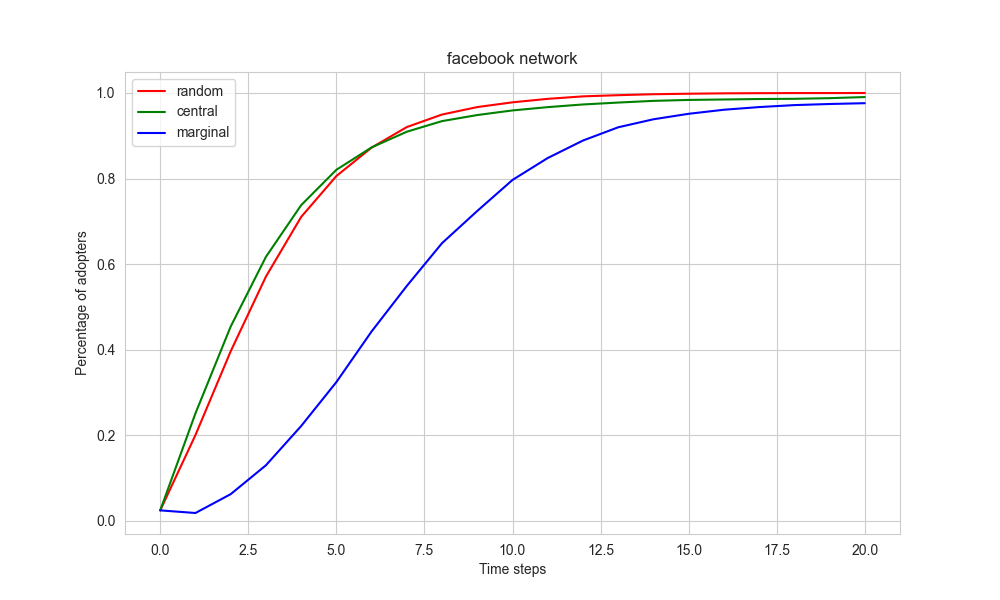
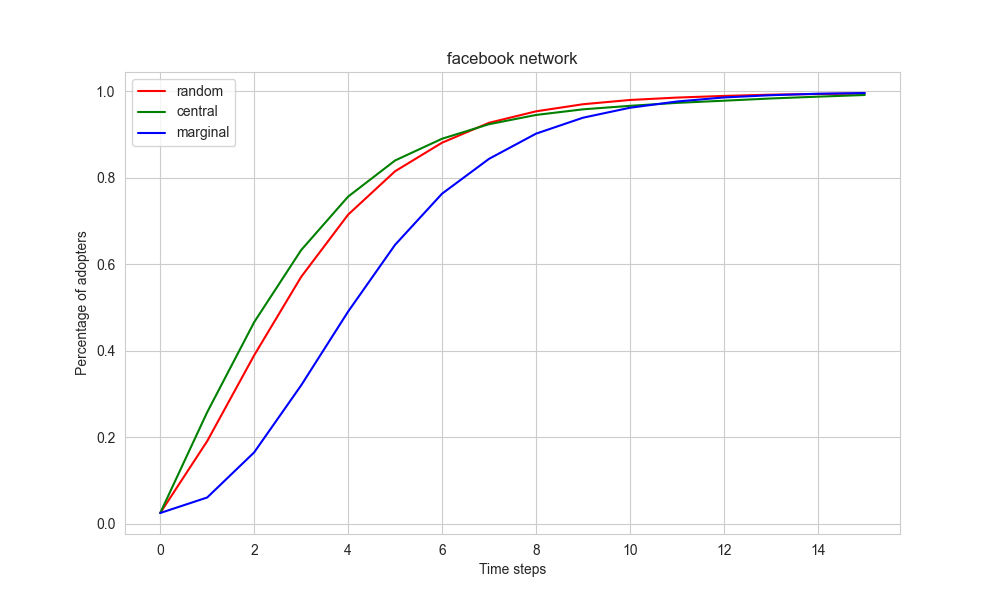
Added tests

diff --git a/tests/tests.py b/tests/tests.py
@@ -1,0 +1,127 @@
+import os
+import pytest
+import networkx as nx
+import pandas as pd
+import numpy as np
+from src.functions import show_and_save_prop
+from src.functions import generate_random_graph
+from src.functions import graph_preprocessing
+from src.functions import spread_of_information
+from src.functions import make_diffusions_and_average
+from src.functions import run_simulation
+
+def test_show_and_save_prop():
+    G = nx.erdos_renyi_graph(100, 0.1)
+    name = "ER_test"
+    show_and_save_prop(G, name)
+    assert os.path.exists(f"../results/{name}/{name}_properties.csv")
+    assert os.path.exists(f"../results/{name}/{name}_degree_distribution.png")
+    os.remove(f"../results/{name}/{name}_properties.csv")
+    os.remove(f"../results/{name}/{name}_degree_distribution.png")
+    os.rmdir(f"../results/{name}")
+
+def test_generate_random_graph():
+    # Test case 1: Check if a graph is returned for valid input
+    g_ran = generate_random_graph(random_type="ER", nodes=10, edges=20)
+    assert isinstance(g_ran, nx.Graph), "The returned object is not a graph"
+    assert g_ran.number_of_nodes() == 10, "The number of nodes is not as expected"
+    assert g_ran.number_of_edges() == 20, "The number of edges is not as expected"
+
+    # Test case 2: Check if ValueError is raised for invalid random_type
+    with pytest.raises(ValueError) as excinfo:
+        g_ran = generate_random_graph(random_type="Invalid", nodes=10, edges=20)
+    assert str(excinfo.value) == "Invalid random_type: Invalid. Please choose one of ER / WS / BA / KB / newman_WS"
+
+    # Test case 3: Check if AssertionError is raised for missing input
+    with pytest.raises(AssertionError) as excinfo:
+        g_ran = generate_random_graph(random_type="ER")
+    assert str(excinfo.value) == "Please provide valid input for number of nodes and edges"
+
+def test_graph_preprocessing():
+    G = nx.Graph()
+    G.add_edges_from([(1,2),(2,3),(3,4),(4,5),(5,1)])
+    G.add_edge(1,1)
+    G.add_node(6)
+    G_new = graph_preprocessing(G)
+    assert G_new.number_of_nodes() == 5
+    assert G_new.number_of_edges() == 5
+    assert not any([G_new.has_edge(u, u) for u in G_new.nodes()])
+    assert nx.is_connected(G_new)
+
+def test_spread_of_information():
+    ## Test case 1: Check if the function returns what is expected for random initial adopters and degree as centrality measure
+    G = nx.erdos_renyi_graph(10, 0.5)
+    timestamp = 5
+    percentage_initial_adopt = 0.2
+    type_initial_adopt = "random"
+    centrality_measure = "degree"
+    adopters_list_d = spread_of_information(G, timestamp, percentage_initial_adopt, type_initial_adopt, centrality_measure)
+
+    # Check if the function returns a list
+    assert isinstance(adopters_list_d, list)
+    # Check if the length of the adopters_list is equal to the timestamp
+    assert len(adopters_list_d) == timestamp
+    # Check if the first element of the adopters_list is equal to the expected number of initial adopters
+    assert adopters_list_d[0] == int(percentage_initial_adopt * len(G.nodes()))
+
+    ## Test case 2: Check if the function returns what is expected for central initial adopters and pagerank as centrality measure
+    G = nx.erdos_renyi_graph(10, 0.5)
+    timestamp = 5
+    percentage_initial_adopt = 0.2
+    type_initial_adopt = "central"
+    centrality_measure = "pagerank"
+    adopters_list_p = spread_of_information(G, timestamp, percentage_initial_adopt, type_initial_adopt,
+                                          centrality_measure)
+
+    # Check if the function returns a list
+    assert isinstance(adopters_list_p, list)
+    # Check if the length of the adopters_list is equal to the timestamp
+    assert len(adopters_list_p) == timestamp
+
+    ## Test case 3: Check if the function returns what is expected for maginal initial adopters and closness as centrality measure
+    G = nx.erdos_renyi_graph(10, 0.5)
+    timestamp = 5
+    percentage_initial_adopt = 0.2
+    type_initial_adopt = "marginal"
+    centrality_measure = "closeness"
+    adopters_list_c = spread_of_information(G, timestamp, percentage_initial_adopt, type_initial_adopt,
+                                            centrality_measure)
+
+    # Check if the function returns a list
+    assert isinstance(adopters_list_c, list)
+    # Check if the length of the adopters_list is equal to the timestamp
+    assert len(adopters_list_c) == timestamp
+
+def test_make_diffusions_and_average():
+    # create a small test graph
+    test_graph = nx.complete_graph(5)
+    # run the function with test parameters
+    result = make_diffusions_and_average(test_graph, num_simulations=5, timestamp=5,
+                                         percentage_initial_adopt=0.1, type_initial_adopt='random',
+                                         centrality_measure='degree')
+    # check that the result is a numpy array
+    assert isinstance(result, np.ndarray)
+    # check that the length of the result is equal to the timestamp parameter
+    assert len(result) == 5
+    # check that the values in the result array are between 0 and 1
+    assert all(0 <= i <= 1 for i in result)
+
+def test_run_simulation():
+    G = nx.erdos_renyi_graph(1000, 0.1) # generate a random graph
+    num_simulations = 5
+    time_steps = 5
+    percentage_initial_adopt = 0.1
+    centrality_measure = 'degree'
+    name = 'test_graph'
+    os.makedirs(f"../results/{name}", exist_ok=True)
+    ran_perc, cen_perc, mar_perc = run_simulation(G, num_simulations, time_steps, percentage_initial_adopt, centrality_measure, name)
+    # check if the returned values are lists of the same length
+    assert len(ran_perc) == len(cen_perc) == len(mar_perc) == time_steps
+    # check if the csv file was created
+    assert os.path.exists(f"../results/{name}/{name}_{centrality_measure}_results.csv")
+    # check if the values in the csv file are the same as the returned values
+    df = pd.read_csv(f"../results/{name}/{name}_{centrality_measure}_results.csv")
+    assert np.allclose(df['random'], ran_perc)
+    assert np.allclose(df['central'], cen_perc)
+    assert np.allclose(df['marginal'], mar_perc)
+

diff --git a/src/functions.py b/src/functions.py
@@ -124,8 +124,9 @@ def generate_random_graph(G=None, random_type="ER", nodes=None, edges=None):
     elif random_type == "newman_WS":
         # Newmann-Watts-Strogatz random graph
         g_ran = random_type_dict[random_type](n=n, k=int(m/n)*2, p=0.01)
+
     g_ran = nx.Graph(g_ran)
-    #print(f"Number of nodes and edges for {random_type}: {g_ran.number_of_nodes()} {g_ran.number_of_edges()}")
+
     return g_ran
 
 def graph_preprocessing(G):
@@ -230,9 +231,9 @@ def spread_of_information(graph, timestamp, percentage_initial_adopt, type_initi
     t = timestamp
     # list of adopters
     adopters_list = [initial_adopt_num]
-    for i in range(t):
+    for i in range(1, t):
         # if full diffusion happened then stop the process
-        if i != 0 and adopters_list[-1] == n:
+        if i != 1 and adopters_list[-1] == n:
             # fill the list with the last value which is the number of nodes
             adopters_list += [n] * (t - len(adopters_list) + 1)
             #print(f'Diffusion already stopped at time step: {i+1}')
@@ -302,7 +303,7 @@ def make_diffusions_and_average(graph, num_simulations, timestamp, percentage_in
     averaged_diffusion_list = np.mean(cumulated_diffusion_list, axis=0)
     return averaged_diffusion_list
 
-def run_simulation_and_plot(G, num_simulations, time_steps, percentage_initial_adopt, centrality_measure, name):
+def run_simulation(G, num_simulations, time_steps, percentage_initial_adopt, centrality_measure, name):
     """
     Runs the simulation and plots the results
     Parameters
@@ -321,7 +322,7 @@ def run_simulation_and_plot(G, num_simulations, time_steps, percentage_initial_a
         The name of the graph
     Returns
     -------
-    plot
+    ran_perc, ran_cent, ran_diff : list
     """
     # run the simulation
     ran = make_diffusions_and_average(G, num_simulations, time_steps, percentage_initial_adopt, 'random', centrality_measure)
@@ -338,16 +339,26 @@ def run_simulation_and_plot(G, num_simulations, time_steps, percentage_initial_a
     df_cen = pd.DataFrame(cen_perc, columns=['central'])
     df_mar = pd.DataFrame(mar_perc, columns=['marginal'])
     df = pd.concat([df_ran, df_cen, df_mar], axis=1)
-    df.rename(columns={0: 'timestamp'}, inplace=True)
+
 
     # save the results to a csv file
     df.to_csv(f"../results/{name}/{name}_{centrality_measure}_results.csv")
 
     return ran_perc, cen_perc, mar_perc
 
-
 def plotting_adopters(diff_data, name):
-    """plot for same graphs but different adopter types"""
+    """
+    This function plots for the diffusion for the same graphs different adopter types
+    Parameters
+    ----------
+    diff_data : list
+        List of lists, each list contains the diffusion for a different adopter type
+    name : str
+        The name of the graph
+    Returns
+    -------
+    None
+    """
 
     ran_perc, cen_perc, mar_perc = diff_data
 
@@ -365,7 +376,19 @@ def plotting_adopters(diff_data, name):
     plt.show()
 
 def plotting_structure(diff_data, name):
-    """plot for different graphs but same adopter types"""
+    """
+    This function plots the diffusion for different graphs
+    Parameters
+    ----------
+    diff_data : list
+        List of tuples containing the diffusion data for each graph
+    name : str
+        The name of the graph
+
+    Returns
+    -------
+    None
+    """
     facebook, er, ws, ba, nw_ws = diff_data
 
     # plot the number of adopters over time with seaborn
@@ -384,7 +407,18 @@ def plotting_structure(diff_data, name):
     plt.show()
 
 def plotting_bass_model(diff_data, name): # right now ONLY prints bass model on random!
-    """plot the bass model along with the inputted diffusion curve"""
+    """
+    This function plots the Bass model along with the inputted diffusion curve of a new idea/product given the input data.
+    Parameters
+    ----------
+    diff_data : list of lists
+        A list of lists, where each list represents the percentage of adopters of the new product over time with different types of initial adopters.
+    name : str
+        The name of the graph
+    Returns
+    -------
+    None
+    """
     ran_perc, cen_perc, mar_perc = diff_data
 
     # fit bass model and get parameters

diff --git a/src/main.py b/src/main.py
@@ -1,16 +1,20 @@
 from functions import *
+import time
 
 def main():
+    start = time.time()
+
     # simulation parameters
-    num_simulations = 1
+    num_simulations = 5
+    num_random_graphs = 5
     time_steps = 15
     percentage_initial_adopt = 0.025
 
     averaged_results = dict()
-    # facebook graph
 
+    # facebook graph
     # Create a graph from edge list
-    G_fb = nx.read_edgelist('data/facebook_combined.txt', delimiter=' ') # G_fb = nx.read_edgelist('../data/facebook_combined.txt', delimiter=' ')
+    G_fb = nx.read_edgelist('../data/facebook_combined.txt', delimiter=' ') # G_fb = nx.read_edgelist('../data/facebook_combined.txt', delimiter=' ')
 
     # preprocess the graph
     G_fb = graph_preprocessing(G_fb)
@@ -19,15 +23,14 @@ def main():
     # show_and_save_prop(G_fb, 'facebook')
 
     # run the simulation
-    ran_avg, cen_avg, mar_avg = run_simulation_and_plot(G_fb, num_simulations, time_steps, percentage_initial_adopt, 'degree', 'facebook')
+    ran_avg, cen_avg, mar_avg = run_simulation(G_fb, num_simulations, time_steps, percentage_initial_adopt, 'degree', 'facebook')
 
     # save results
     averaged_results['facebook'] = (ran_avg, cen_avg, mar_avg)
 
     # random graphs
-
     collected_results = dict()
-    for i in range(num_simulations):
+    for i in range(num_random_graphs):
         # create random graphs
         G_er = generate_random_graph(G_fb, 'ER')
         G_ws = generate_random_graph(G_fb, 'WS')
@@ -41,16 +44,16 @@ def main():
         G_nw_ws = graph_preprocessing(G_nw_ws)
 
         # show properties
-        # show_and_save_prop(G_er, 'ER')
-        # show_and_save_prop(G_ws, 'WS')
-        # show_and_save_prop(G_ba, 'BA')
-        # show_and_save_prop(G_nw_ws, 'newman_WS')
+        show_and_save_prop(G_er, 'ER')
+        show_and_save_prop(G_ws, 'WS')
+        show_and_save_prop(G_ba, 'BA')
+        show_and_save_prop(G_nw_ws, 'newman_WS')
 
         # run the simulation
-        er_ran_perc, er_cen_perc, er_mar_perc = run_simulation_and_plot(G_er, num_simulations, time_steps, percentage_initial_adopt, 'degree', 'ER')
-        ws_ran_perc, ws_cen_perc, ws_mar_perc = run_simulation_and_plot(G_ws, num_simulations, time_steps, percentage_initial_adopt, 'degree', 'WS')
-        ba_ran_perc, ba_cen_perc, ba_mar_perc = run_simulation_and_plot(G_ba, num_simulations, time_steps, percentage_initial_adopt, 'degree', 'BA')
-        nw_ws_ran_perc, nw_ws_cen_perc, nw_ws_mar_perc = run_simulation_and_plot(G_nw_ws, num_simulations, time_steps, percentage_initial_adopt, 'degree', 'newman_WS')
+        er_ran_perc, er_cen_perc, er_mar_perc = run_simulation(G_er, num_simulations, time_steps, percentage_initial_adopt, 'degree', 'ER')
+        ws_ran_perc, ws_cen_perc, ws_mar_perc = run_simulation(G_ws, num_simulations, time_steps, percentage_initial_adopt, 'degree', 'WS')
+        ba_ran_perc, ba_cen_perc, ba_mar_perc = run_simulation(G_ba, num_simulations, time_steps, percentage_initial_adopt, 'degree', 'BA')
+        nw_ws_ran_perc, nw_ws_cen_perc, nw_ws_mar_perc = run_simulation(G_nw_ws, num_simulations, time_steps, percentage_initial_adopt, 'degree', 'newman_WS')
 
         # save results in dictionary
         if i == 0:
@@ -75,7 +78,6 @@ def main():
     collected_results.clear()
 
     # plotting the results
-
     # plotting same graph different adopters
     for key in averaged_results:
         plotting_adopters(averaged_results[key], key)
@@ -86,7 +88,10 @@ def main():
     plotting_structure((averaged_results["facebook"][2], averaged_results["ER"][2], averaged_results["WS"][2], averaged_results["BA"][2], averaged_results["newman_WS"][2]), "marginal")
 
     # plotting bass model on facebook network with random adopters
-    plotting_bass_model(averaged_results["facebook"], "Facebook random")
+    #plotting_bass_model(averaged_results["facebook"], "Facebook random")
+
+    end = time.time()
+    print("Time taken: ", end - start)
 
 if __name__ == '__main__':
     main()
